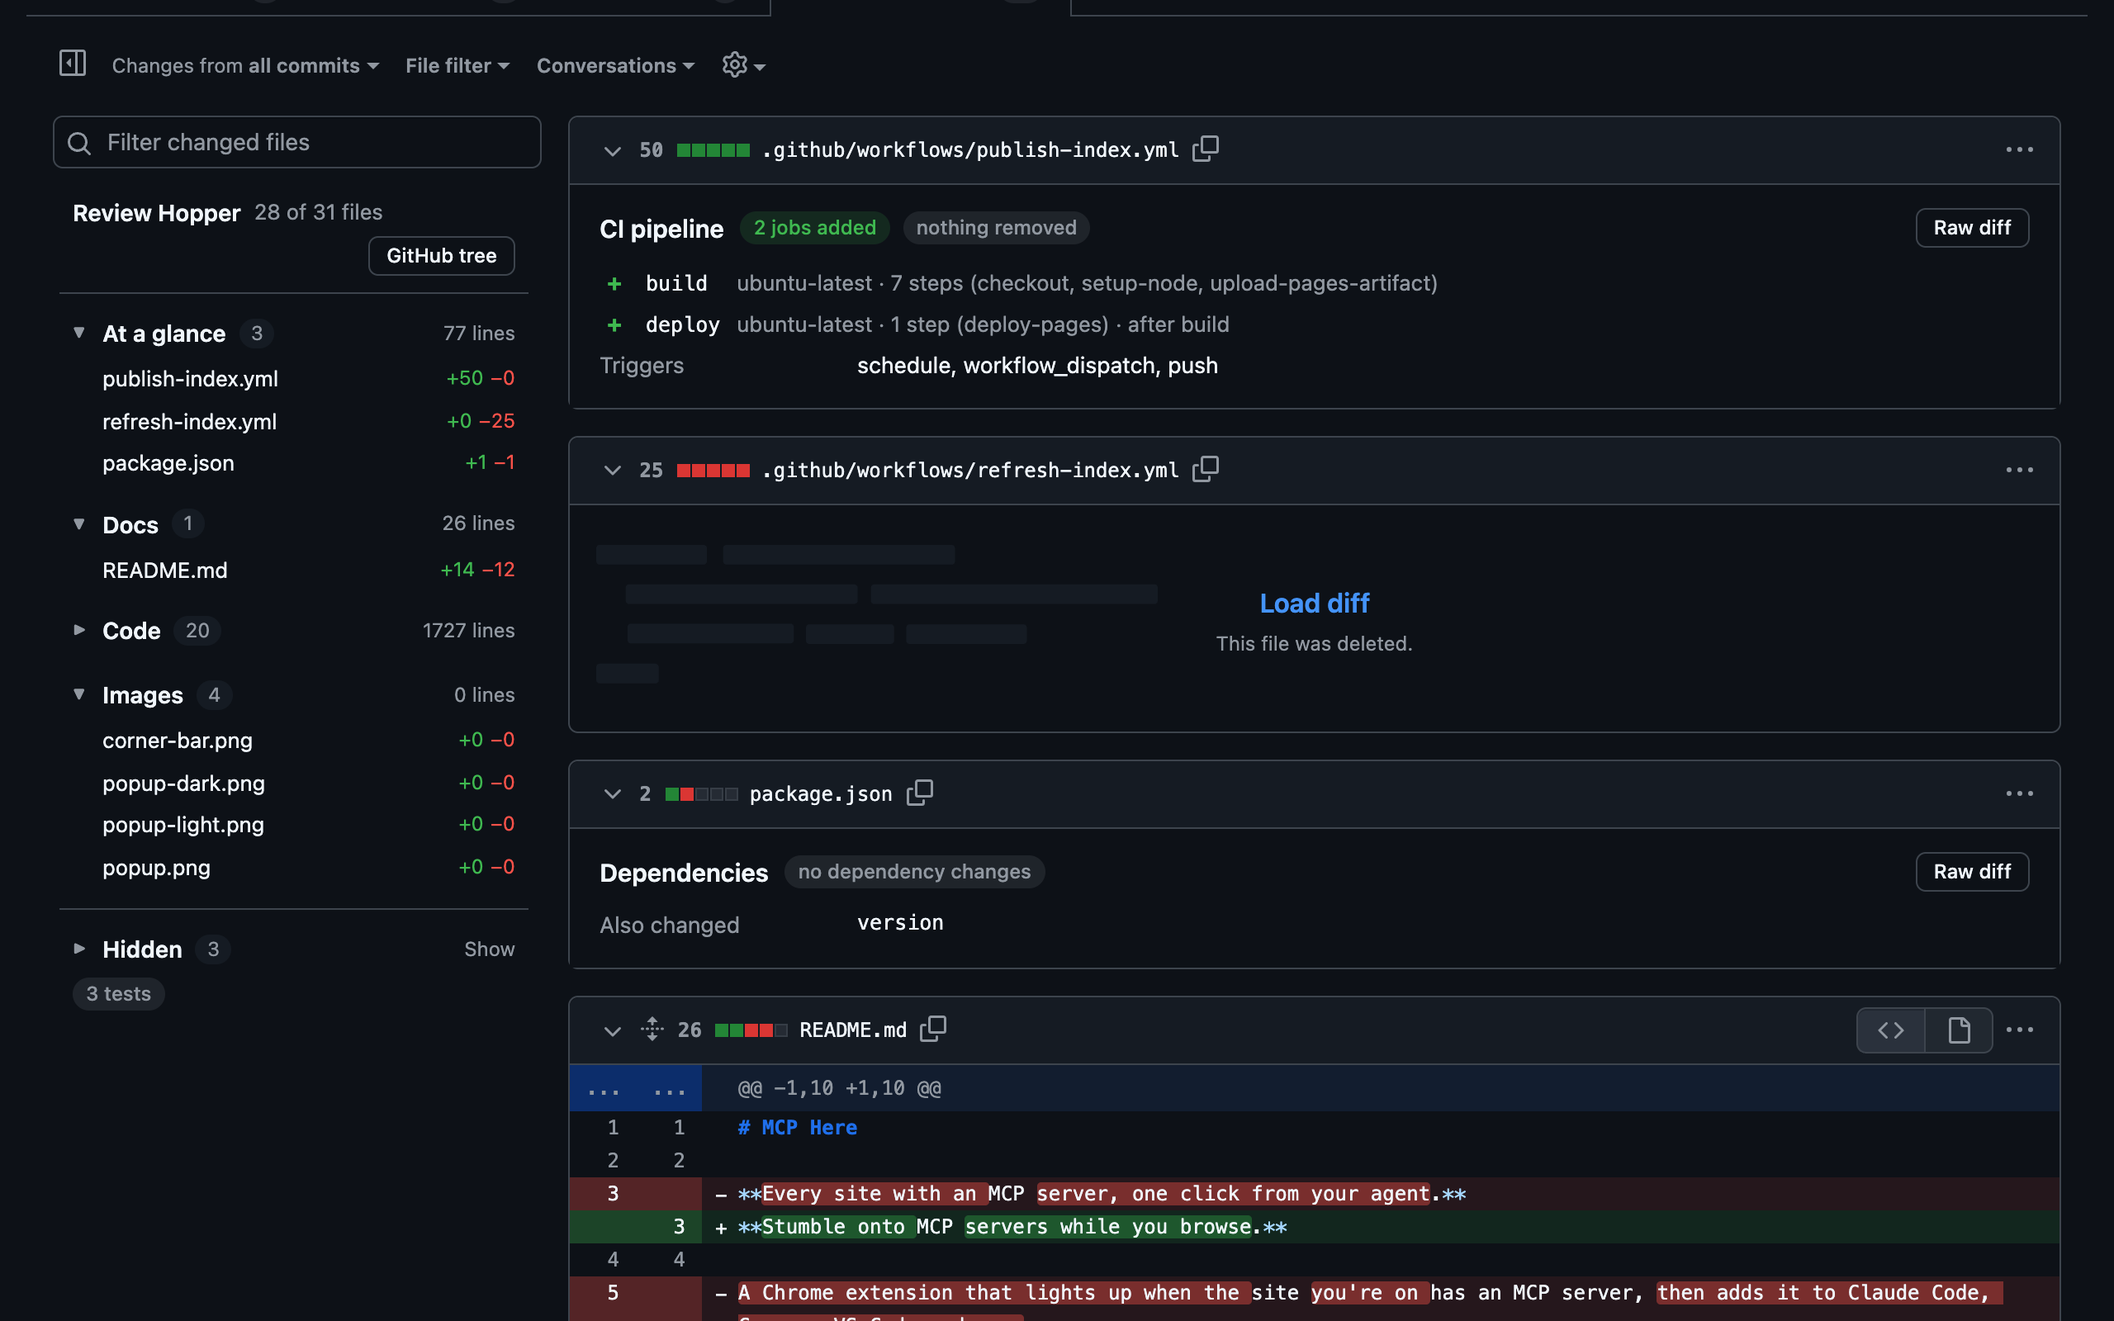
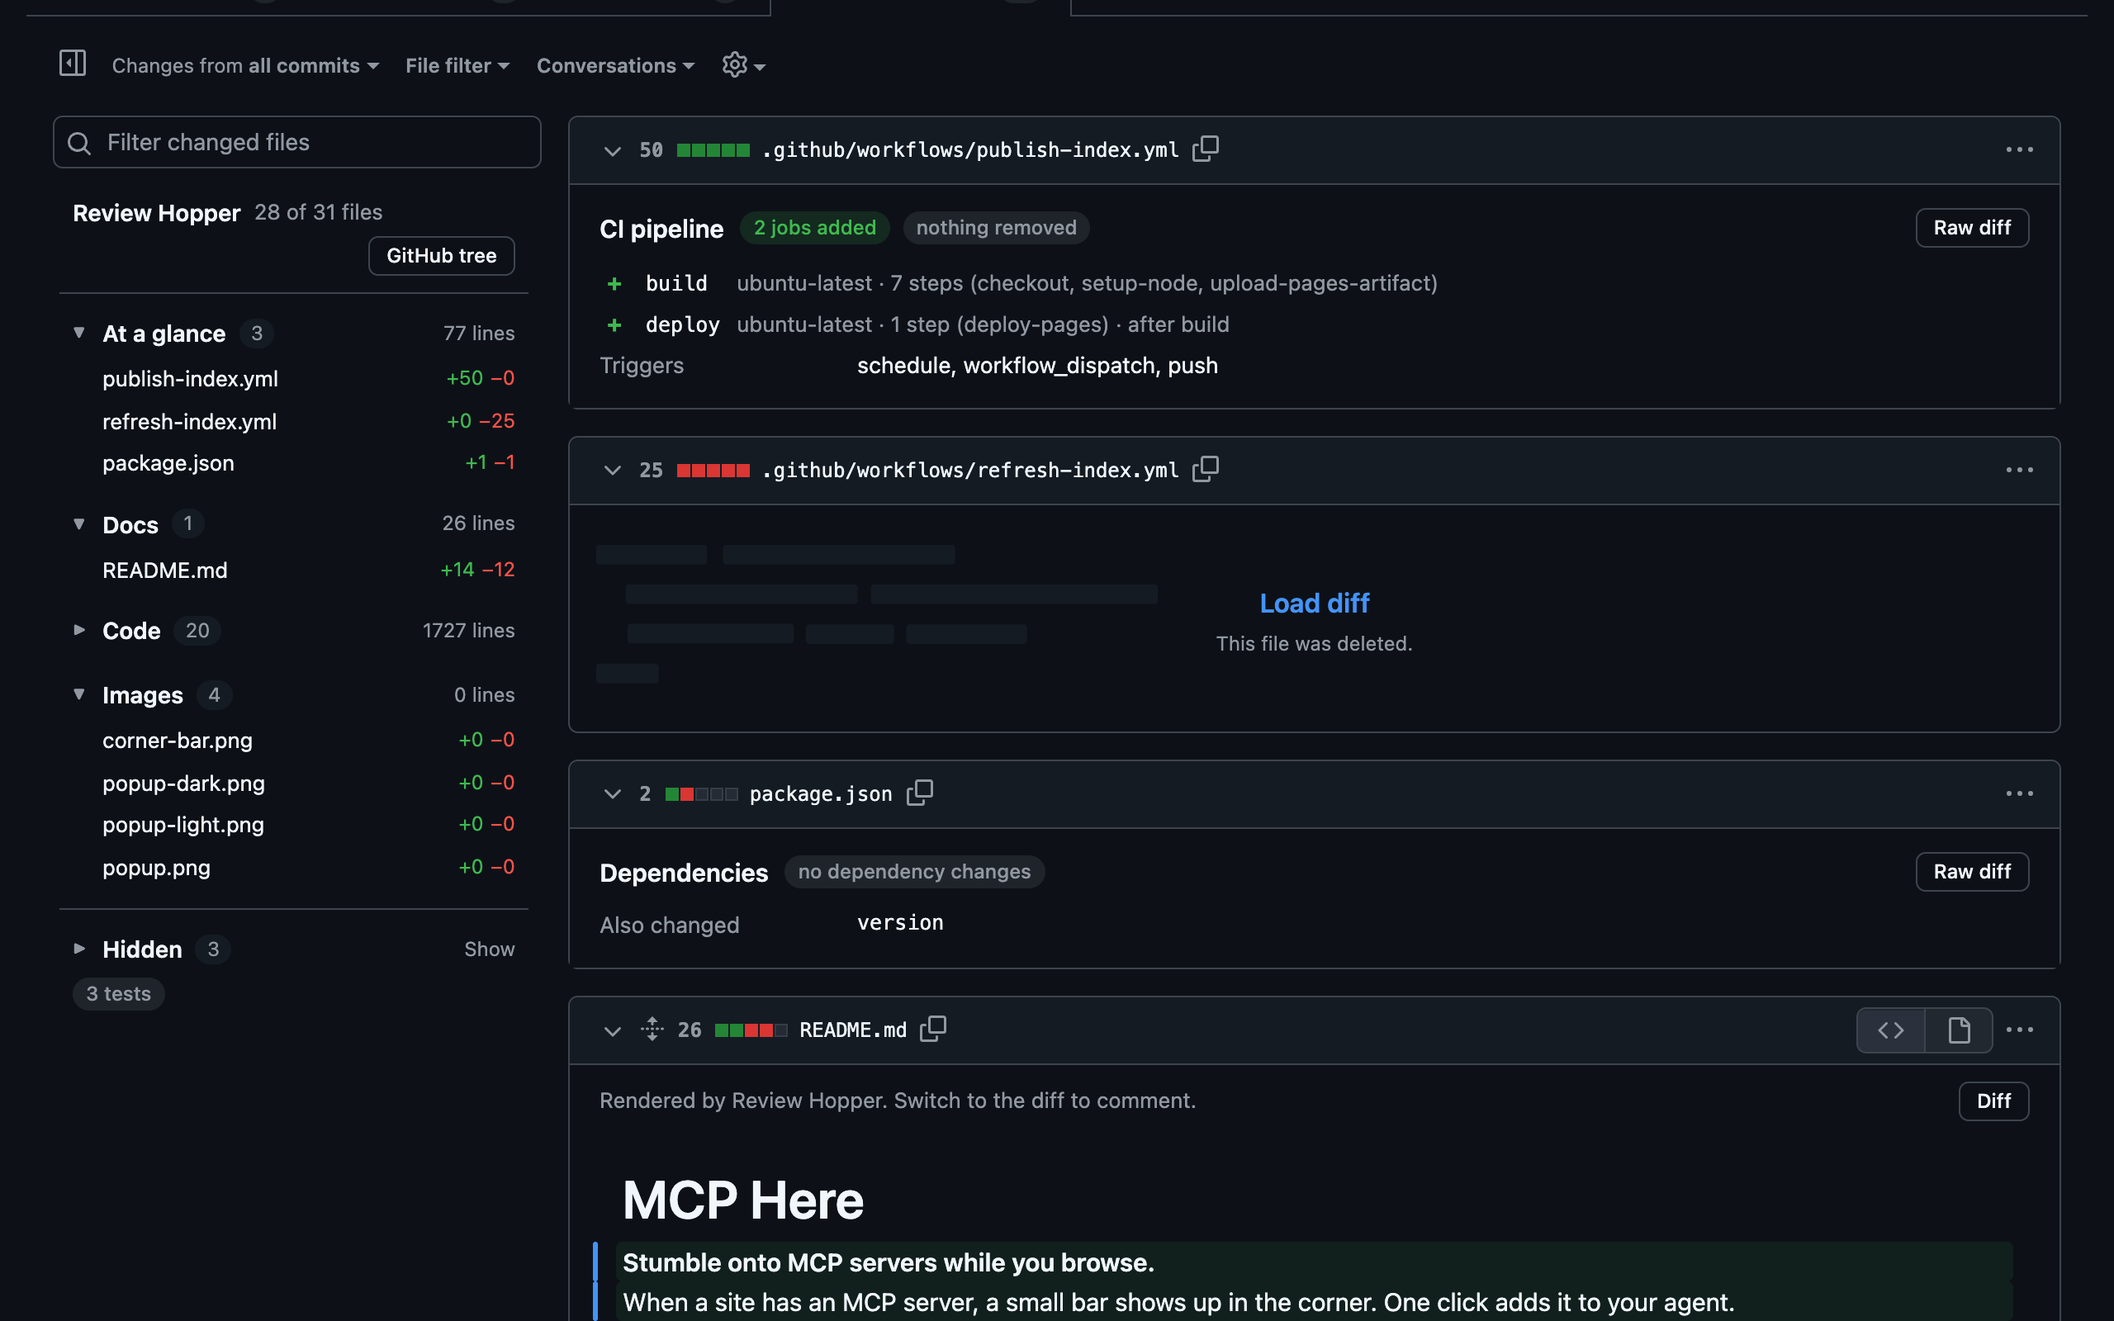
Render markdown on GitHub too; feature it on the landing page
- Markdown renders on both sites now, not only GitLab: GitHub's own rich view
  is off by default, so reviewers there were still reading raw markdown.
  Commenting from the rendered view stays GitLab-only; on GitHub the note says
  to switch to the diff.
- Raw HTML in markdown (centred logos, <img width>, <details>) renders through
  a strict allowlist sanitiser (src/ui/sanitize.ts) instead of showing as
  escaped tags. No scripts, styles, frames, forms, event handlers, id or name;
  links and images only to http(s), mailto or anchors, relative ones resolved
  to the repo. e2e/sanitize.mjs checks it in a real browser against XSS and
  DOM-clobbering inputs.
- Landing page: a "Markdown, rendered" section with the same README as the
  diff shows it and as Review Hopper shows it, cropped to the file. The lede
  leads with it. Store: the rendered README is the first screenshot and its
  paragraph comes first in the description (copy pending Moiz's approval).

Checks: typecheck, 28 unit tests, build, sanitiser e2e (16 cases), GitHub e2e
on the classic and signed-in pages including the README render.

Decisions (not in the brief):
- GitHub renders with Review Hopper, not by clicking GitHub's own rich-diff
  toggle. Ours marks changed blocks and matches GitLab. Undo: one condition.
- Raw HTML allowed through an allowlist rather than escaped. Undo: html:false.
- Comparison pair uses Moiz's public mcp-here README. Undo: URL in shots.mjs.

Changed region(s): [[0.25, 0.7812, 0.9688, 1.0], [0.9375, 0.8125, 0.9688, 0.8438]]

diff --git a/src/ui/sanitize.ts b/src/ui/sanitize.ts
@@ -1,0 +1,75 @@
+// Cleans HTML rendered from a repo's markdown before it goes on the page. Markdown files often carry
+// raw HTML (centred logos, <details>, <img width=...>), so it's allowed through, but only these tags
+// and attributes survive. Everything else is dropped (scripts, styles, frames, forms) or unwrapped
+// to its text (unknown tags). Links and images may only point at http(s), mailto, anchors or the
+// repo itself; relative ones resolve against the file's folder. No id or name, so a README can't
+// plant an element the page's own scripts look up.
+
+import type { Links } from '../lib/parsers/markdown.ts';
+
+const TAGS = new Set([
+  'a', 'abbr', 'b', 'blockquote', 'br', 'code', 'dd', 'del', 'details', 'div', 'dl', 'dt', 'em', 'h1', 'h2', 'h3', 'h4', 'h5', 'h6',
+  'hr', 'i', 'img', 'input', 'ins', 'kbd', 'li', 'mark', 'ol', 'p', 'picture', 'pre', 's', 'samp', 'source', 'span', 'strong', 'sub',
+  'summary', 'sup', 'table', 'tbody', 'td', 'tfoot', 'th', 'thead', 'tr', 'u', 'ul',
+]);
+/** Removed with their content. */
+const DROP = new Set(['script', 'style', 'iframe', 'object', 'embed', 'form', 'textarea', 'select', 'button', 'link', 'meta', 'base', 'svg', 'math', 'template', 'noscript', 'frame', 'frameset']);
+const ATTRS = new Set(['href', 'src', 'srcset', 'alt', 'title', 'width', 'height', 'align', 'colspan', 'rowspan', 'open', 'start', 'type', 'checked', 'disabled', 'media']);
+const URL_ATTRS = new Set(['href', 'src', 'srcset']);
+
+function safeUrl(value: string, base: string): string | undefined {
+  const v = value.trim();
+  if (v.startsWith('#')) return v;
+  try {
+    const url = new URL(v, base);
+    return ['http:', 'https:', 'mailto:'].includes(url.protocol) ? url.href : undefined;
+  } catch {
+    return undefined;
+  }
+}
+
+function clean(node: Element, links: Links) {
+  for (const child of [...node.children]) {
+    const tag = child.tagName.toLowerCase();
+    if (DROP.has(tag)) {
+      child.remove();
+      continue;
+    }
+    clean(child, links);
+    if (!TAGS.has(tag)) {
+      child.replaceWith(...child.childNodes);
+      continue;
+    }
+    // Only task-list checkboxes, read-only.
+    if (tag === 'input' && child.getAttribute('type') !== 'checkbox') {
+      child.remove();
+      continue;
+    }
+    for (const attr of [...child.attributes]) {
+      const name = attr.name.toLowerCase();
+      if (!ATTRS.has(name)) child.removeAttribute(attr.name);
+      else if (URL_ATTRS.has(name)) {
+        const base = name === 'href' ? links.link : links.image;
+        const value = name === 'srcset'
+          ? attr.value.split(',').map((part) => { const [u, ...rest] = part.trim().split(/\s+/); const s = safeUrl(u, base); return s && [s, ...rest].join(' '); }).filter(Boolean).join(', ')
+          : safeUrl(attr.value, base);
+        if (value) child.setAttribute(attr.name, value);
+        else child.removeAttribute(attr.name);
+      }
+    }
+    if (tag === 'input') child.setAttribute('disabled', '');
+    if (tag === 'a' && child.getAttribute('href') && !child.getAttribute('href')!.startsWith('#')) {
+      child.setAttribute('target', '_blank');
+      child.setAttribute('rel', 'noopener noreferrer');
+    }
+  }
+}
+
+/** Parses `html` into an inert document, cleans it, and returns the nodes to insert. */
+export function sanitize(html: string, links: Links): DocumentFragment {
+  const doc = new DOMParser().parseFromString(`<body>${html}</body>`, 'text/html');
+  clean(doc.body, links);
+  const fragment = document.createDocumentFragment();
+  fragment.append(...[...doc.body.childNodes].map((n) => document.importNode(n, true)));
+  return fragment;
+}

diff --git a/site/public/index.html b/site/public/index.html
@@ -55,6 +55,15 @@ h1 em{color:var(--accent)}
 .demo{max-width:960px;margin:48px auto 0;background:var(--card);border:1px solid var(--rule);border-radius:14px;box-shadow:0 18px 40px -24px rgba(20,30,25,.3);overflow:hidden}
 .demo video{display:block;width:100%;height:auto;aspect-ratio:16/9}
 
+.docs{margin:96px 0 0;text-align:center}
+.docs h2{font-family:var(--serif);font-weight:400;font-size:clamp(36px,5.5vw,56px);line-height:1.05;margin:0 0 12px}
+.docs h2 em{color:var(--accent)}
+.docs .sub{max-width:560px;margin:0 auto;color:var(--ink-2);font-size:17px}
+.pair{display:grid;grid-template-columns:1fr 1fr;gap:20px;margin:36px 0 0}
+.pair figure{margin:0}
+.pair img{display:block;width:100%;height:auto;border:1px solid var(--rule);border-radius:12px}
+.pair figcaption{margin-top:10px;font-size:14px;color:var(--muted)}
+.pair .with figcaption{color:var(--accent);font-weight:600}
 .shots{display:grid;grid-template-columns:repeat(2,1fr);gap:28px;margin:72px 0 0}
 .shot figure{margin:0}
 .shot img{display:block;width:100%;height:auto;border:1px solid var(--rule);border-radius:12px;background:var(--card)}
@@ -66,7 +75,7 @@ h1 em{color:var(--accent)}
 footer{margin-top:96px;border-top:1px solid var(--rule);padding:28px 0 48px;font-size:13.5px;color:var(--muted);display:flex;justify-content:space-between;gap:16px;flex-wrap:wrap}
 footer a{color:var(--muted)}
 
-@media (max-width:820px){ .hero{padding-top:36px} .shots{grid-template-columns:1fr} }
+@media (max-width:820px){ .hero{padding-top:36px} .shots,.pair{grid-template-columns:1fr} }
 @media (max-width:520px){ .wrap{padding:0 16px} .facts{flex-direction:column} .facts li+li::before{content:none} }
 </style>
 </head>
@@ -82,7 +91,7 @@ footer a{color:var(--muted)}
 
 <header class="hero">
   <h1>Review what changed.<br><em>Skip what didn't.</em></h1>
-  <p class="lede">Dependencies, migrations, Dockerfiles and CI as summaries. Docs rendered. Tests out of the way. Inside GitLab and GitHub.</p>
+  <p class="lede">Markdown rendered. Dependencies, migrations, Dockerfiles and CI as summaries. Tests out of the way. Inside GitLab and GitHub.</p>
   <a class="cta" href="https://github.com/MoizAhmedd/review-hopper#install-development">Add to Chrome</a>
   <p class="works">For gitlab.com merge requests and GitHub pull requests</p>
 
@@ -91,6 +100,15 @@ footer a{color:var(--muted)}
            aria-label="A GitHub pull request with Review Hopper: the file tree grouped, a migration shown as a table and the tests moved to Hidden."></video>
   </div>
 </header>
+
+<section class="docs">
+  <h2>Markdown, <em>rendered.</em></h2>
+  <p class="sub">READMEs, specs and ADRs read the way they'll be published, with what changed marked. No more reviewing raw markdown.</p>
+  <div class="pair">
+    <figure><img src="shot-docs-raw.png" alt="A README change as raw markdown in GitHub's diff"><figcaption>As the diff shows it</figcaption></figure>
+    <figure class="with"><img src="shot-docs.png" alt="The same README rendered by Review Hopper, with changed blocks marked"><figcaption>With Review Hopper</figcaption></figure>
+  </div>
+</section>
 
 <section class="shots">
   <div class="shot"><figure><img src="shot-deps.png" alt="A dependency bump shown as a summary"><figcaption>Dependency bumps, at a glance</figcaption></figure></div>

diff --git a/src/ui/markdown-view.ts b/src/ui/markdown-view.ts
@@ -1,7 +1,8 @@
 // Rendered markdown with changed blocks marked, and comments posted to a source line.
 
-import type { Block } from '../lib/parsers/markdown.ts';
+import type { Block, Links } from '../lib/parsers/markdown.ts';
 import { h } from './dom.ts';
+import { sanitize } from './sanitize.ts';
 
 const LABEL: Record<Block['status'], string> = { same: '', added: 'Added', changed: 'Changed', removed: 'Removed' };
 
@@ -9,18 +10,17 @@ const LABEL: Record<Block['status'], string> = { same: '', added: 'Added', chang
  * `comment` posts to the first line of the block the diff adds; blocks with no added line (and
  * all blocks, when the site can't take comments) get no comment button.
  */
-export function markdownView(blocks: Block[], addedLines: number[], comment?: (line: number, text: string) => Promise<void>): HTMLElement {
+export function markdownView(blocks: Block[], addedLines: number[], links: Links, comment?: (line: number, text: string) => Promise<void>): HTMLElement {
   const added = new Set(addedLines);
   const root = h('div', { class: 'rh rh-md' });
   for (const block of blocks) {
     const el = h('div', { class: `rh-blk ${block.status}`, title: LABEL[block.status] });
-    // markdown-it runs with html: false, so this HTML can't carry markup from the repo.
     const body = h('div');
-    body.innerHTML = block.html;
+    body.append(sanitize(block.html, links));
     el.append(body);
     if (block.oldHtml) {
       const old = h('div', { class: 'rh-old' });
-      old.innerHTML = block.oldHtml;
+      old.append(sanitize(block.oldHtml, links));
       old.hidden = true;
       el.append(old);
     }

diff --git a/src/content.ts b/src/content.ts
@@ -132,7 +132,7 @@ class Review {
     else delete slot.dataset.rhHide;
     slot.dataset.rhOrder = this.hidden.has(file) ? '4' : CARD_KINDS.has(kind) ? '1' : ORDER[kind] ?? '3';
     const wantsCard = this.settings.cards && CARD_KINDS.has(kind) && file.status !== 'removed';
-    const wantsMarkdown = this.settings.markdown && kind === 'docs' && !!this.site.comment && file.status !== 'removed';
+    const wantsMarkdown = this.settings.markdown && kind === 'docs' && file.status !== 'removed';
     if ((wantsCard || wantsMarkdown) && !this.mounted.get(file.path)?.isConnected) this.mount(file, kind, block, wantsCard ? 'card' : 'markdown');
   }
 
@@ -166,9 +166,9 @@ class Review {
         else {
           const comment = this.site.comment?.bind(this.site);
           view = h('div', { class: 'rh' },
-            h('div', { class: 'rh rh-note', style: 'display:flex;align-items:center' }, 'Rendered by Review Hopper. Hover a changed block to comment on it.',
+            h('div', { class: 'rh rh-note', style: 'display:flex;align-items:center' }, comment ? 'Rendered by Review Hopper. Hover a changed block to comment on it.' : 'Rendered by Review Hopper. Switch to the diff to comment.',
               h('button', { class: 'rh-btn', style: 'margin-left:auto', onclick: () => showRaw() }, 'Diff')),
-            markdownView(res.blocks, res.addedLines, comment && ((line, text) => comment(file, line, text))));
+            markdownView(res.blocks, res.addedLines, this.site.links(file), comment && ((line, text) => comment(file, line, text))));
         }
         showView();
       } catch (error) {

diff --git a/test/parsers.test.ts b/test/parsers.test.ts
@@ -171,12 +171,11 @@ test('markdown: marks added and changed blocks and keeps their source lines', ()
   assert.match(blocks[2].oldHtml!, /<table>/);
 });
 
-test('markdown: escapes HTML in the file and resolves relative links', () => {
+test('markdown: resolves relative links (raw HTML is left for the page script to sanitise)', () => {
   const [block] = markdownDiff(null, '<img src=x onerror=alert(1)> [guide](../guide.md) ![d](img/d.png)', {
     link: 'https://gitlab.com/g/p/-/blob/abc/docs/',
     image: 'https://gitlab.com/g/p/-/raw/abc/docs/',
   });
-  assert.doesNotMatch(block.html, /<img src=x/);
   assert.match(block.html, /href="https:\/\/gitlab\.com\/g\/p\/-\/blob\/abc\/guide\.md"/);
   assert.match(block.html, /src="https:\/\/gitlab\.com\/g\/p\/-\/raw\/abc\/docs\/img\/d\.png"/);
 });

diff --git a/static/popup.html b/static/popup.html
@@ -22,7 +22,7 @@
     <label><input type="checkbox" id="generated" /> Generated and vendored files</label>
     <h2>Replace</h2>
     <label><input type="checkbox" id="cards" /> Summaries for dependencies, database, Docker, CI and API files</label>
-    <label><input type="checkbox" id="markdown" /> Rendered markdown (GitLab)</label>
+    <label><input type="checkbox" id="markdown" /> Rendered markdown</label>
     <p>Hidden files are one click away at the end of the list.</p>
     <script type="module" src="popup.js"></script>
   </body>

diff --git a/src/lib/parsers/markdown.ts b/src/lib/parsers/markdown.ts
@@ -24,8 +24,8 @@ export interface Links {
 }
 
 function renderer(links?: Links): Md {
-  // html: false escapes raw HTML in the file, so nothing from the repo runs on the page.
-  const md = new MarkdownIt({ html: false, linkify: true });
+  // Raw HTML in the file passes through; the page script sanitises every block before showing it.
+  const md = new MarkdownIt({ html: true, linkify: true });
   if (links) {
     const resolve = (url: string, base: string) => {
       if (/^([a-z]+:|#|\/\/)/i.test(url)) return url;

diff --git a/src/sites/site.ts b/src/sites/site.ts
@@ -29,7 +29,7 @@ export interface Site {
   /** The base and head commits being compared, once files() has run. Results are cached by it. */
   revision(): string | undefined;
   links(file: SiteFile): Links;
-  /** Present when Review Hopper renders the site's markdown itself. */
+  /** Posts a comment on a line of the new file. Present where the site's API allows it (GitLab). */
   comment?(file: SiteFile, line: number, text: string): Promise<void>;
 }
 

diff --git a/store/listing.md b/store/listing.md
@@ -24,9 +24,9 @@ for word before submitting (AGENTS.md).
 >
 > Review Hopper changes the review page on gitlab.com and GitHub so the parts that need a person come first.
 >
-> At a glance: dependency manifests, database migrations, Dockerfiles, CI config and API specs show as short summaries instead of raw diffs. Packages added and upgraded, columns added, jobs added, endpoints changed, with checks such as "no drops" or "runs as non-root". The raw diff is one click away.
+> Markdown rendered: READMEs, specs and ADRs read the way they'll be published, with what changed marked, on GitLab and GitHub. No more reviewing raw markdown. On GitLab you can comment on a passage and it lands on the source line.
 >
-> Docs rendered: markdown reads the way it will be published, with changed parts marked. On GitLab you can comment on a passage and it lands on the source line.
+> At a glance: dependency manifests, database migrations, Dockerfiles, CI config and API specs show as short summaries instead of raw diffs. Packages added and upgraded, columns added, jobs added, endpoints changed, with checks such as "no drops" or "runs as non-root". The raw diff is one click away.
 >
 > Noise hidden: tests, tool config, lockfiles and generated files move to a Hidden group at the end of the list, one click away.
 >
@@ -37,8 +37,8 @@ for word before submitting (AGENTS.md).
 
 **Graphics:**
 - Icon: `store-icon-128.png` (also in the package)
-- Screenshots, 1280×800, in this order: `shot-migration.png`, `shot-docker.png`, `shot-deps.png`,
-  `shot-tree.png`
+- Screenshots, 1280×800, in this order (the store takes five): `shot-docs.png`, `shot-migration.png`,
+  `shot-docker.png`, `shot-deps.png`, `shot-tree.png`
 - Small promo tile, 440×280: `promo-tile-440x280.png`
 
 **Homepage URL:** https://moizahmedd.github.io/review-hopper/

diff --git a/README.md b/README.md
@@ -5,8 +5,9 @@ Review merge requests and pull requests by what matters. A Chrome extension for 
 - **At a glance:** `package.json`, migrations, Prisma schemas, Dockerfiles, CI config and OpenAPI
   specs become summary cards: dependencies added or upgraded, columns added, jobs added,
   endpoints changed, and checks like "no drops" or "non-root". The raw diff is one click away.
-- **Docs rendered:** markdown shows as it will be read on GitLab, with changed blocks marked.
-  Comment on a block and it lands on the source line.
+- **Docs rendered:** markdown shows as it will be read, with changed blocks marked, on GitLab and
+  GitHub, including the HTML READMEs often carry (through a strict allowlist). On GitLab, comment on
+  a block and it lands on the source line.
 - **Noise hidden:** tests, tool config, lockfiles and generated files move to a Hidden group at
   the end of the list.
 - **One file tree** grouped as At a glance, Docs, Code and Hidden, in place of the site's.
